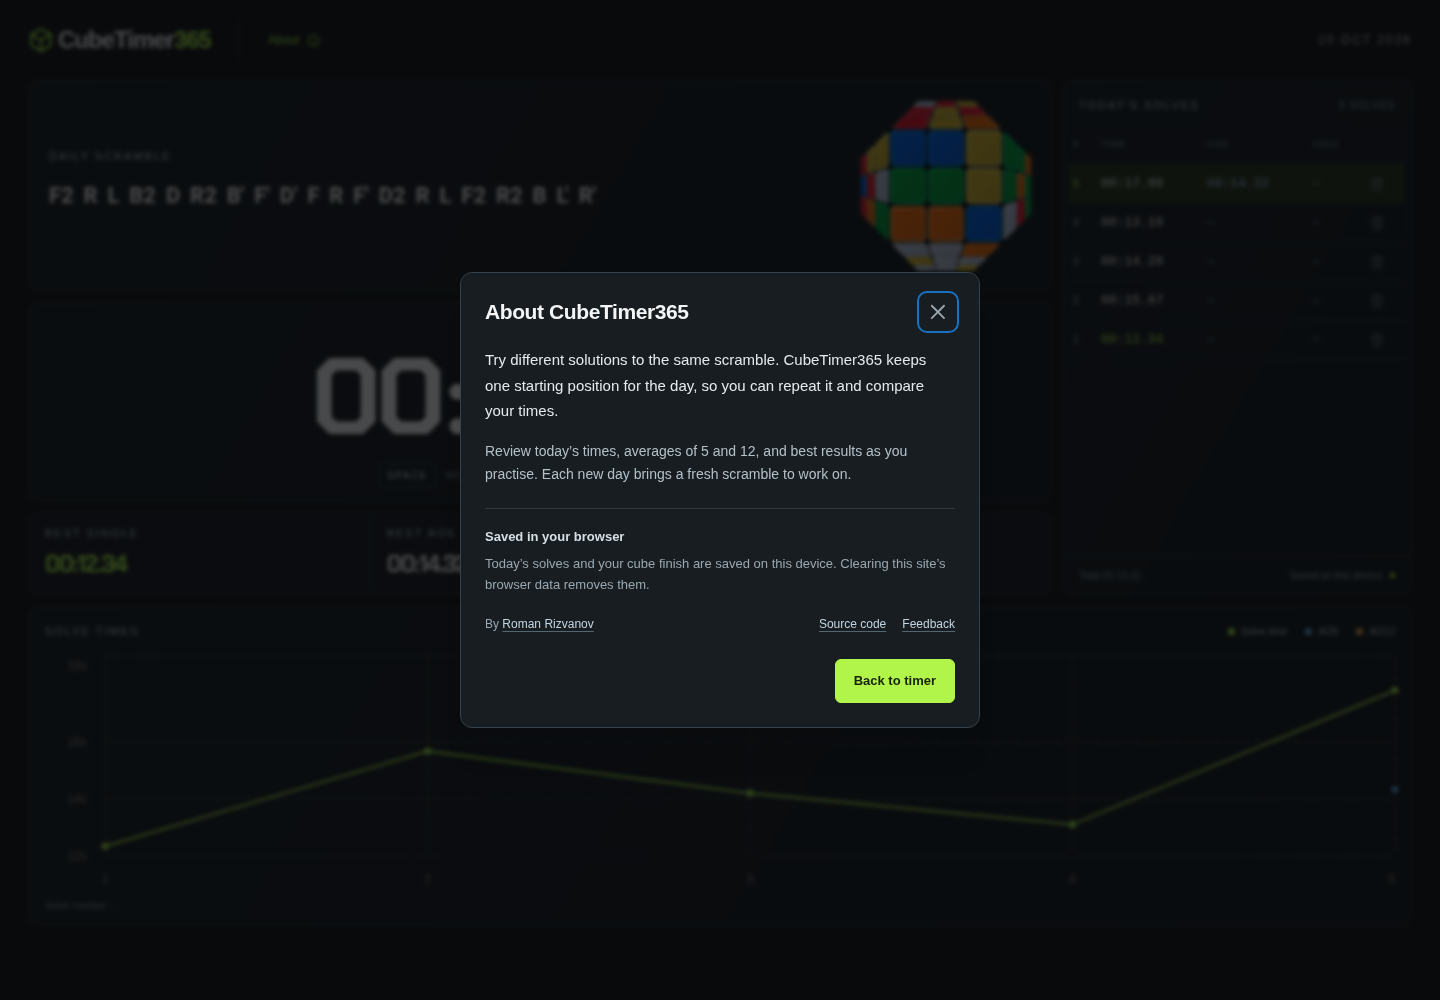
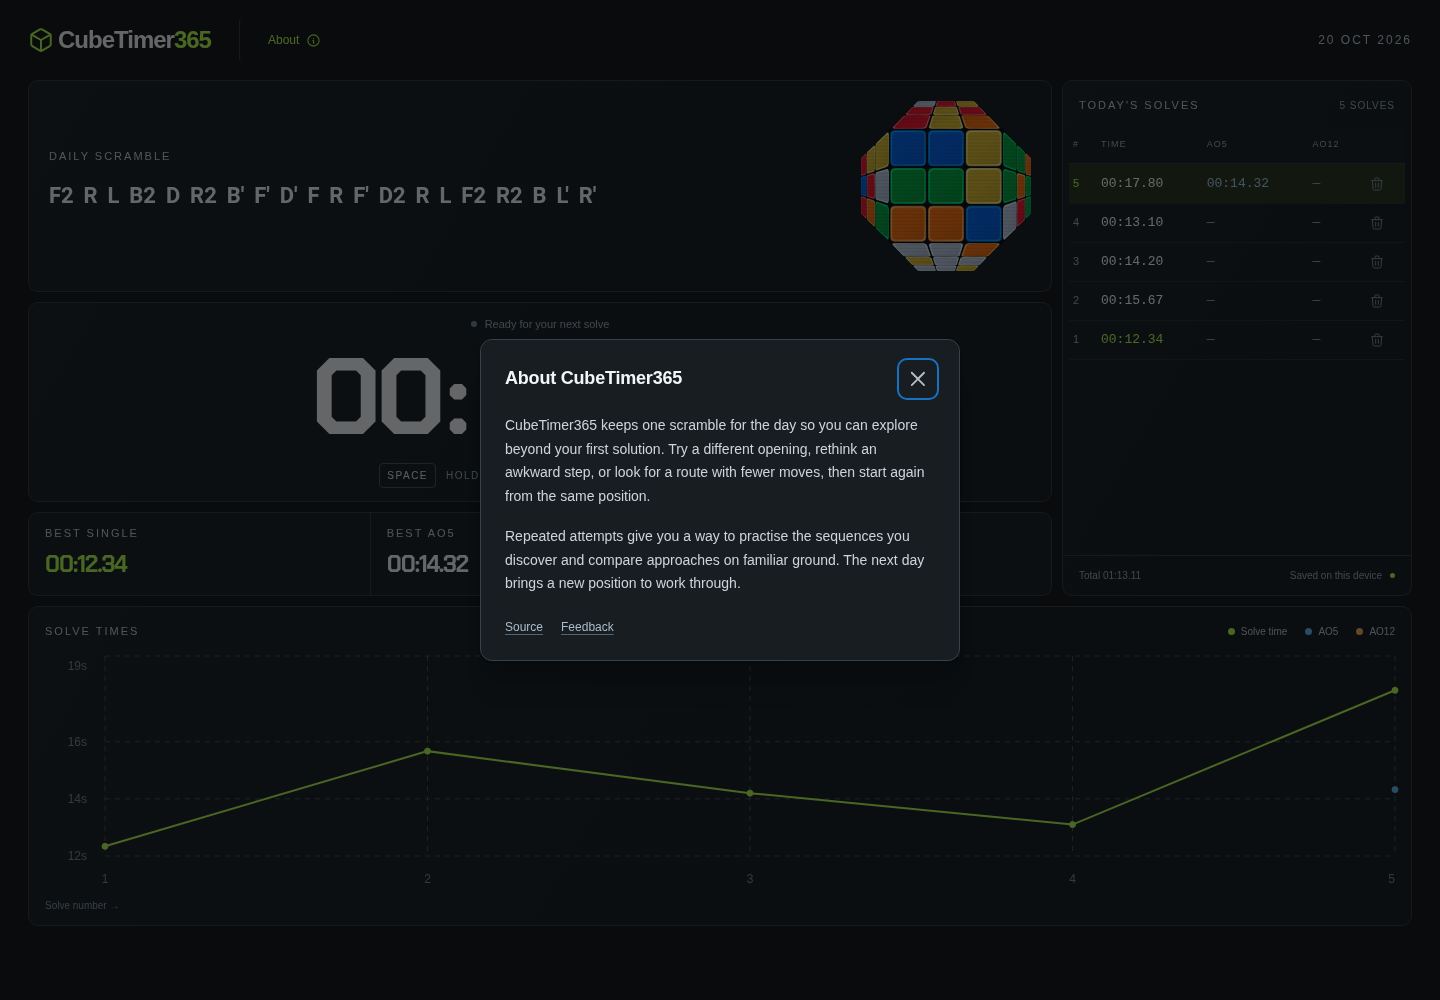
Focus About on exploring the daily position

diff --git a/src/About.tsx b/src/About.tsx
@@ -15,13 +15,13 @@ export default function About({
       onClose={onClose}
       title="About CubeTimer365"
       centered
-      size={520}
+      size={480}
       padding={0}
       radius={12}
       xOffset={12}
       yOffset={12}
       returnFocus={false}
-      overlayProps={{ color: "#050708", backgroundOpacity: 0.72, blur: 2 }}
+      overlayProps={{ color: "#050708", backgroundOpacity: 0.6 }}
       transitionProps={{ transition: "fade", duration: 120 }}
       closeButtonProps={{ "aria-label": "Close About" }}
       classNames={{
@@ -32,53 +32,33 @@ export default function About({
         close: "about-modal-close",
       }}
     >
-      <p className="about-intro">
-        Try different solutions to the same scramble. CubeTimer365 keeps one
-        starting position for the day, so you can repeat it and compare your
-        times.
+      <p>
+        CubeTimer365 keeps one scramble for the day so you can explore beyond
+        your first solution. Try a different opening, rethink an awkward step,
+        or look for a route with fewer moves, then start again from the same
+        position.
       </p>
-      <p className="about-detail">
-        Review today’s times, averages of 5 and 12, and best results as you
-        practise. Each new day brings a fresh scramble to work on.
+      <p>
+        Repeated attempts give you a way to practise the sequences you discover
+        and compare approaches on familiar ground. The next day brings a new
+        position to work through.
       </p>
-      <section className="about-device" aria-labelledby="about-device-title">
-        <h3 id="about-device-title">Saved in your browser</h3>
-        <p>
-          Today’s solves and your cube finish are saved on this device. Clearing
-          this site’s browser data removes them.
-        </p>
-      </section>
-      <div className="about-project">
-        <span>
-          By{" "}
-          <a
-            href="https://github.com/progbeat"
-            target="_blank"
-            rel="noreferrer"
-          >
-            Roman Rizvanov
-          </a>
-        </span>
-        <div className="about-links">
-          <a
-            href="https://github.com/progbeat/cubetimer365"
-            target="_blank"
-            rel="noreferrer"
-          >
-            Source code
-          </a>
-          <a
-            href="https://github.com/progbeat/cubetimer365/issues/new"
-            target="_blank"
-            rel="noreferrer"
-          >
-            Feedback
-          </a>
-        </div>
+      <div className="about-links">
+        <a
+          href="https://github.com/progbeat/cubetimer365"
+          target="_blank"
+          rel="noreferrer"
+        >
+          Source
+        </a>
+        <a
+          href="https://github.com/progbeat/cubetimer365/issues/new"
+          target="_blank"
+          rel="noreferrer"
+        >
+          Feedback
+        </a>
       </div>
-      <button type="button" className="about-return" onClick={onClose}>
-        Back to timer
-      </button>
     </Modal>
   );
 }

diff --git a/src/About.css b/src/About.css
@@ -1,26 +1,17 @@
 .about-modal-content { background: #171d21; border: 1px solid #35414b; color: var(--text); }
-.about-modal-header { padding: 22px 24px 10px; background: #171d21; }
-.about-modal-title { font-size: 21px; font-weight: 650; line-height: 1.35; letter-spacing: -0.4px; }
-.about-modal-close { width: 34px; height: 34px; color: var(--muted); border-radius: 6px; }
+.about-modal-header { padding: 22px 24px 12px; background: #171d21; }
+.about-modal-title { font-size: 18px; font-weight: 600; line-height: 1.4; letter-spacing: -0.2px; }
+.about-modal-close { width: 34px; height: 34px; color: #b4c0c8; border-radius: 6px; }
 .about-modal-close:hover { background: #273138; color: var(--text); }
-.about-modal-body { padding: 8px 24px 24px; }
-.about-intro { margin: 0 0 16px; font-size: 15px; line-height: 1.7; color: #e3e9ed; }
-.about-detail { margin: 0; font-size: 14px; line-height: 1.65; color: #b4c0c8; }
-.about-device { margin-top: 22px; padding-top: 18px; border-top: 1px solid var(--border); }
-.about-device h3 { margin: 0 0 6px; font-size: 13px; line-height: 1.5; font-weight: 650; color: #d6dfe5; }
-.about-device p { margin: 0; font-size: 13px; line-height: 1.65; color: var(--muted); }
-.about-project { display: flex; flex-wrap: wrap; justify-content: space-between; gap: 10px 18px; margin-top: 20px; font-size: 12px; line-height: 1.6; color: var(--muted); }
-.about-links { display: flex; gap: 16px; }
-.about-project a { color: #c3d4df; text-decoration: underline; text-decoration-color: #54656f; text-underline-offset: 3px; }
-.about-project a:hover { color: var(--lime); text-decoration-color: var(--lime); }
-.about-return { display: block; min-height: 44px; margin: 24px 0 0 auto; padding: 10px 18px; border: 1px solid var(--lime); border-radius: 6px; background: var(--lime); color: #18220d; font: inherit; font-size: 13px; line-height: 1.5; font-weight: 650; cursor: pointer; }
-.about-return:hover { background: #c5ff70; border-color: #c5ff70; }
+.about-modal-body { padding: 6px 24px 24px; }
+.about-modal-body p { margin: 0; color: #cbd5dc; font-size: 14px; line-height: 1.7; }
+.about-modal-body p + p { margin-top: 16px; }
+.about-links { display: flex; gap: 18px; margin-top: 22px; font-size: 12px; line-height: 1.5; }
+.about-links a { color: #aabcc8; text-decoration: underline; text-decoration-color: #54656f; text-underline-offset: 3px; }
+.about-links a:hover { color: var(--lime); text-decoration-color: var(--lime); }
 @media (width <= 480px) {
-  .about-modal-header { padding: 18px 18px 8px; }
-  .about-modal-title { font-size: 19px; }
-  .about-modal-body { padding: 8px 18px 18px; }
-  .about-intro { font-size: 14px; line-height: 1.65; }
-  .about-detail { font-size: 13px; }
-  .about-device { margin-top: 18px; padding-top: 16px; }
-  .about-return { width: 100%; margin-top: 20px; }
+  .about-modal-header { padding: 18px 18px 10px; }
+  .about-modal-body { padding: 6px 18px 20px; }
+  .about-modal-body p { line-height: 1.65; }
+  .about-links { margin-top: 20px; }
 }

diff --git a/scripts/review/browser-check.js b/scripts/review/browser-check.js
@@ -47,7 +47,7 @@ export default async (page) => {
     "Space opens About without starting a solve or changing history",
   );
   await page
-    .getByRole("button", { name: "Back to timer", exact: true })
+    .getByRole("button", { name: "Close About", exact: true })
     .click();
   await aboutPanel.waitFor({ state: "hidden" });
   await page.waitForFunction(() =>
@@ -56,7 +56,7 @@ export default async (page) => {
   assert(
     !(await aboutPanel.isVisible()) &&
       (await about.getAttribute("aria-expanded")) === "false",
-    "Back to timer closes About and returns keyboard focus",
+    "The close button closes About and returns keyboard focus",
   );
   await about.click();
   await aboutPanel.waitFor();

diff --git a/src/App.test.tsx b/src/App.test.tsx
@@ -770,9 +770,7 @@ it("keeps About keyboard input out of the timer and returns focus when closed", 
   await flushStorage();
   expect(screen.queryByText("Solving")).not.toBeInTheDocument();
   expect(saved()).toEqual([12, 15]);
-  fireEvent.click(
-    within(dialog).getByRole("button", { name: "Back to timer" }),
-  );
+  fireEvent.click(within(dialog).getByRole("button", { name: "Close About" }));
   advance(200);
   await flushStorage();
   expect(surface()).toHaveFocus();
